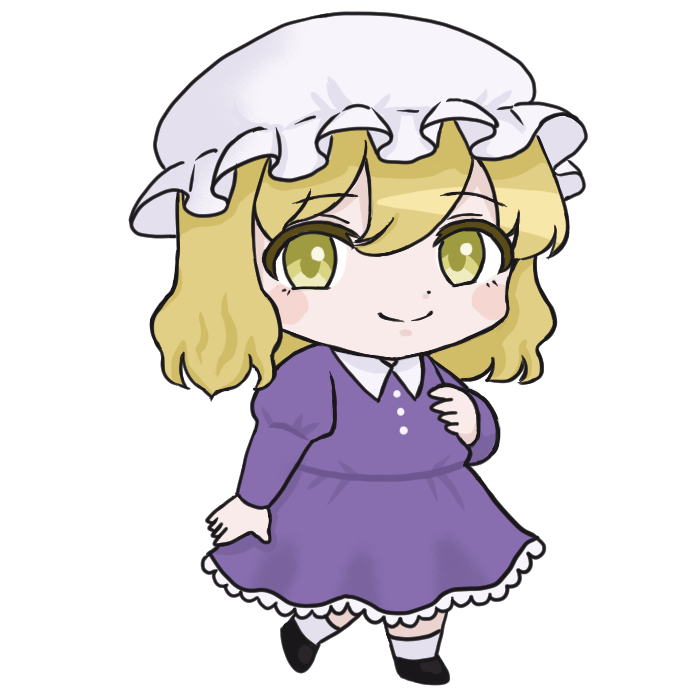
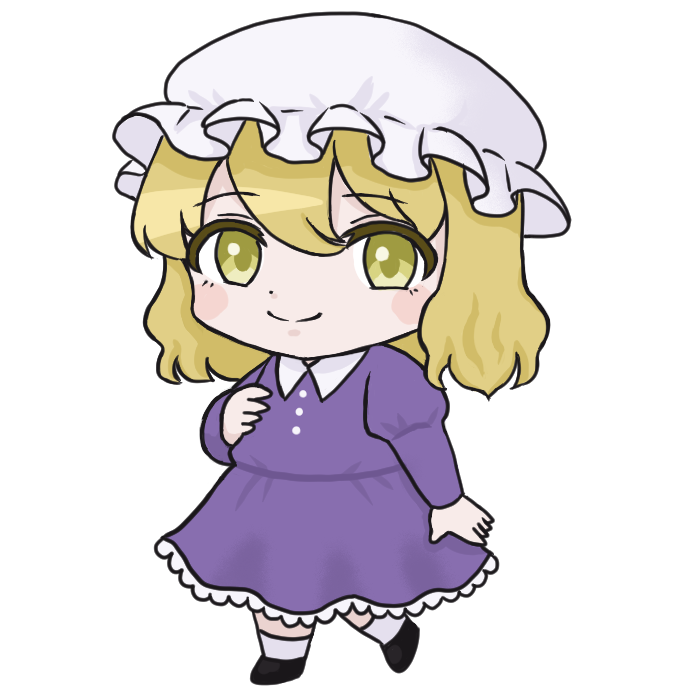
キャラの向きを差し替え、蓮子とメリーの位置変更

Changed region(s): [[0.15, 0.0, 0.84, 0.99]]

diff --git a/src/App.vue b/src/App.vue
@@ -31,8 +31,8 @@
           >
         </p>
       </div>
-      <img src="/img/mary.png" alt="" class="mary" style="grid-area: char1" />
-      <img src="/img/renko.png" alt="" class="renko" style="grid-area: char2" />
+      <img src="/img/mary.png" alt="" class="mary" style="grid-area: char2" />
+      <img src="/img/renko.png" alt="" class="renko" style="grid-area: char1" />
       <div class="video" style="grid-area: movie">
         <iframe
           width="560"
